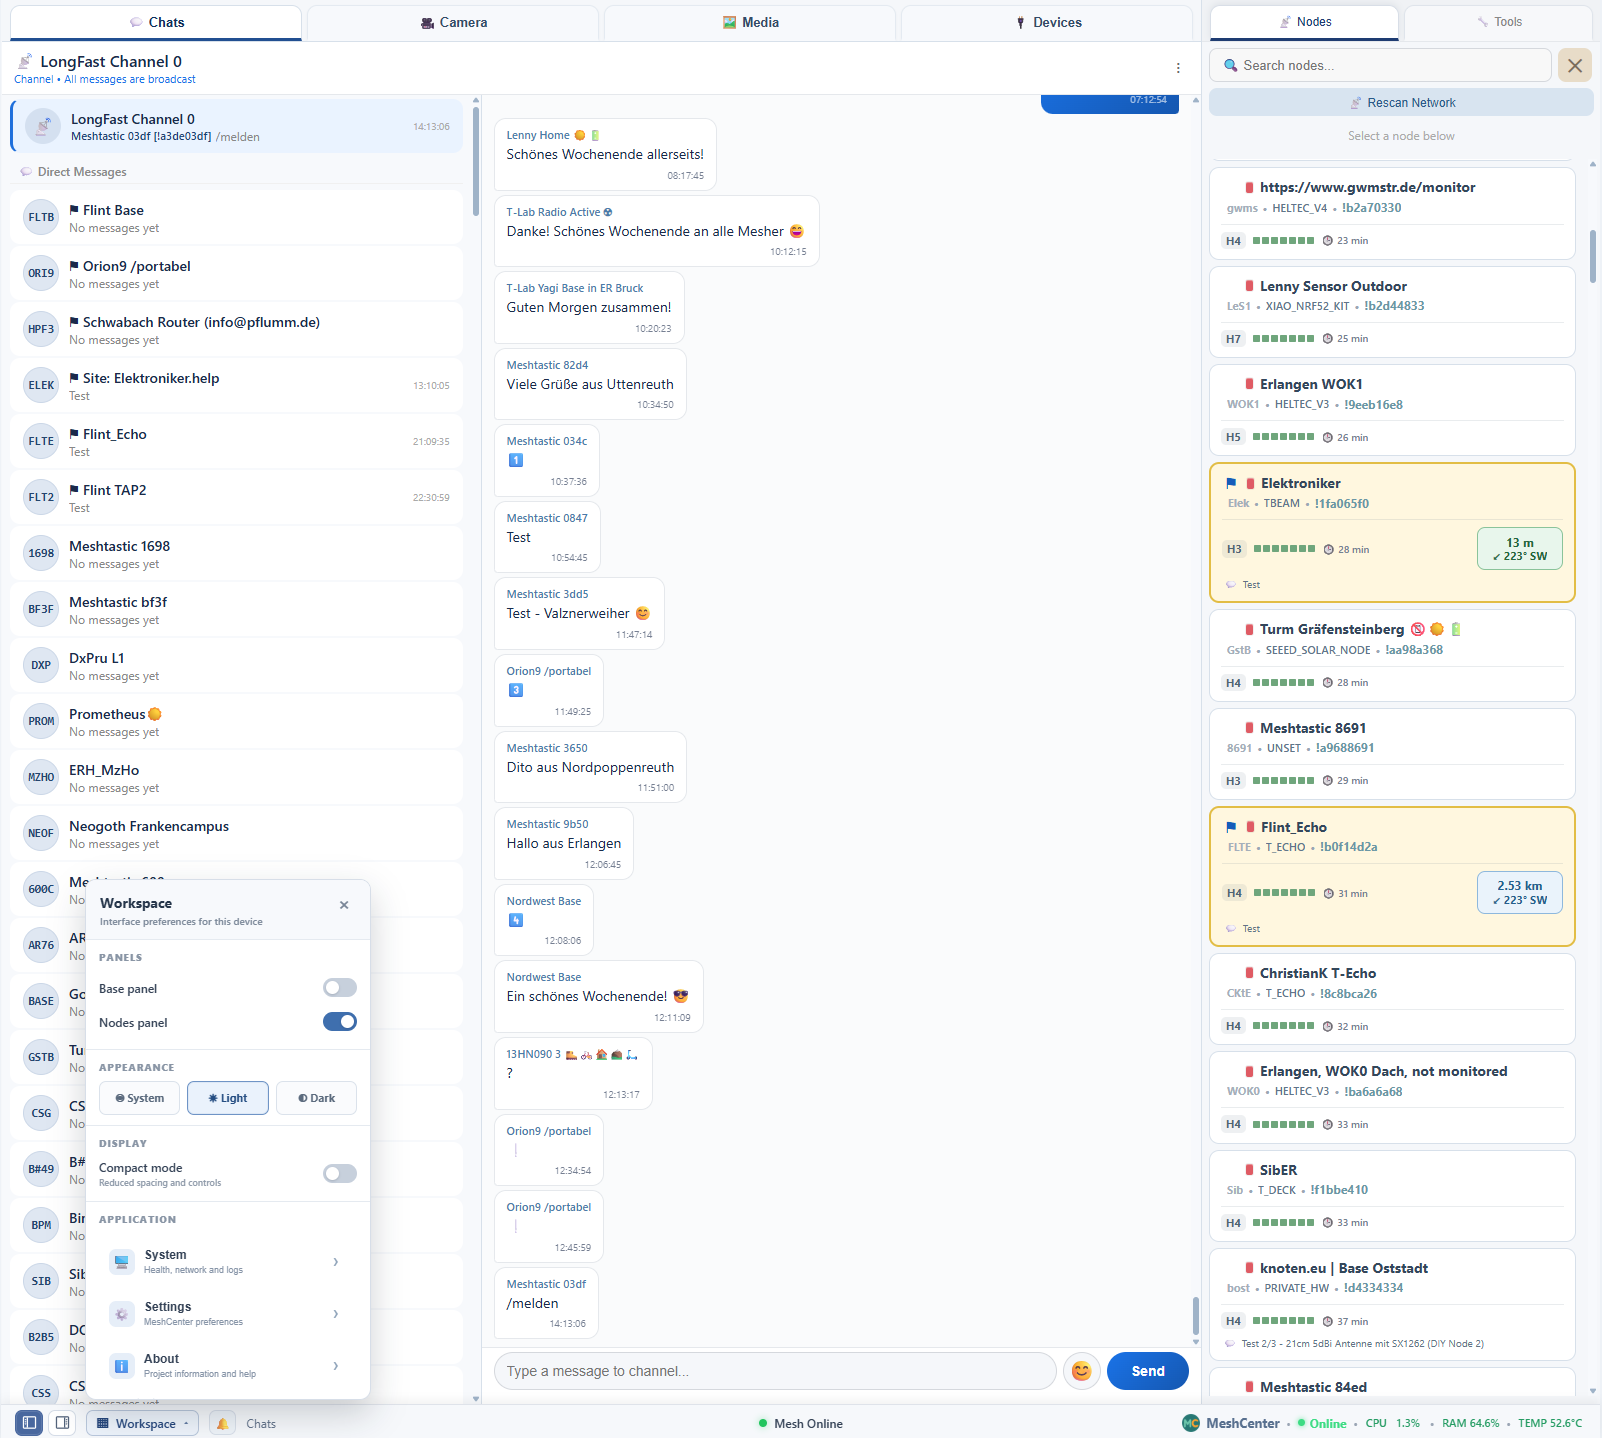
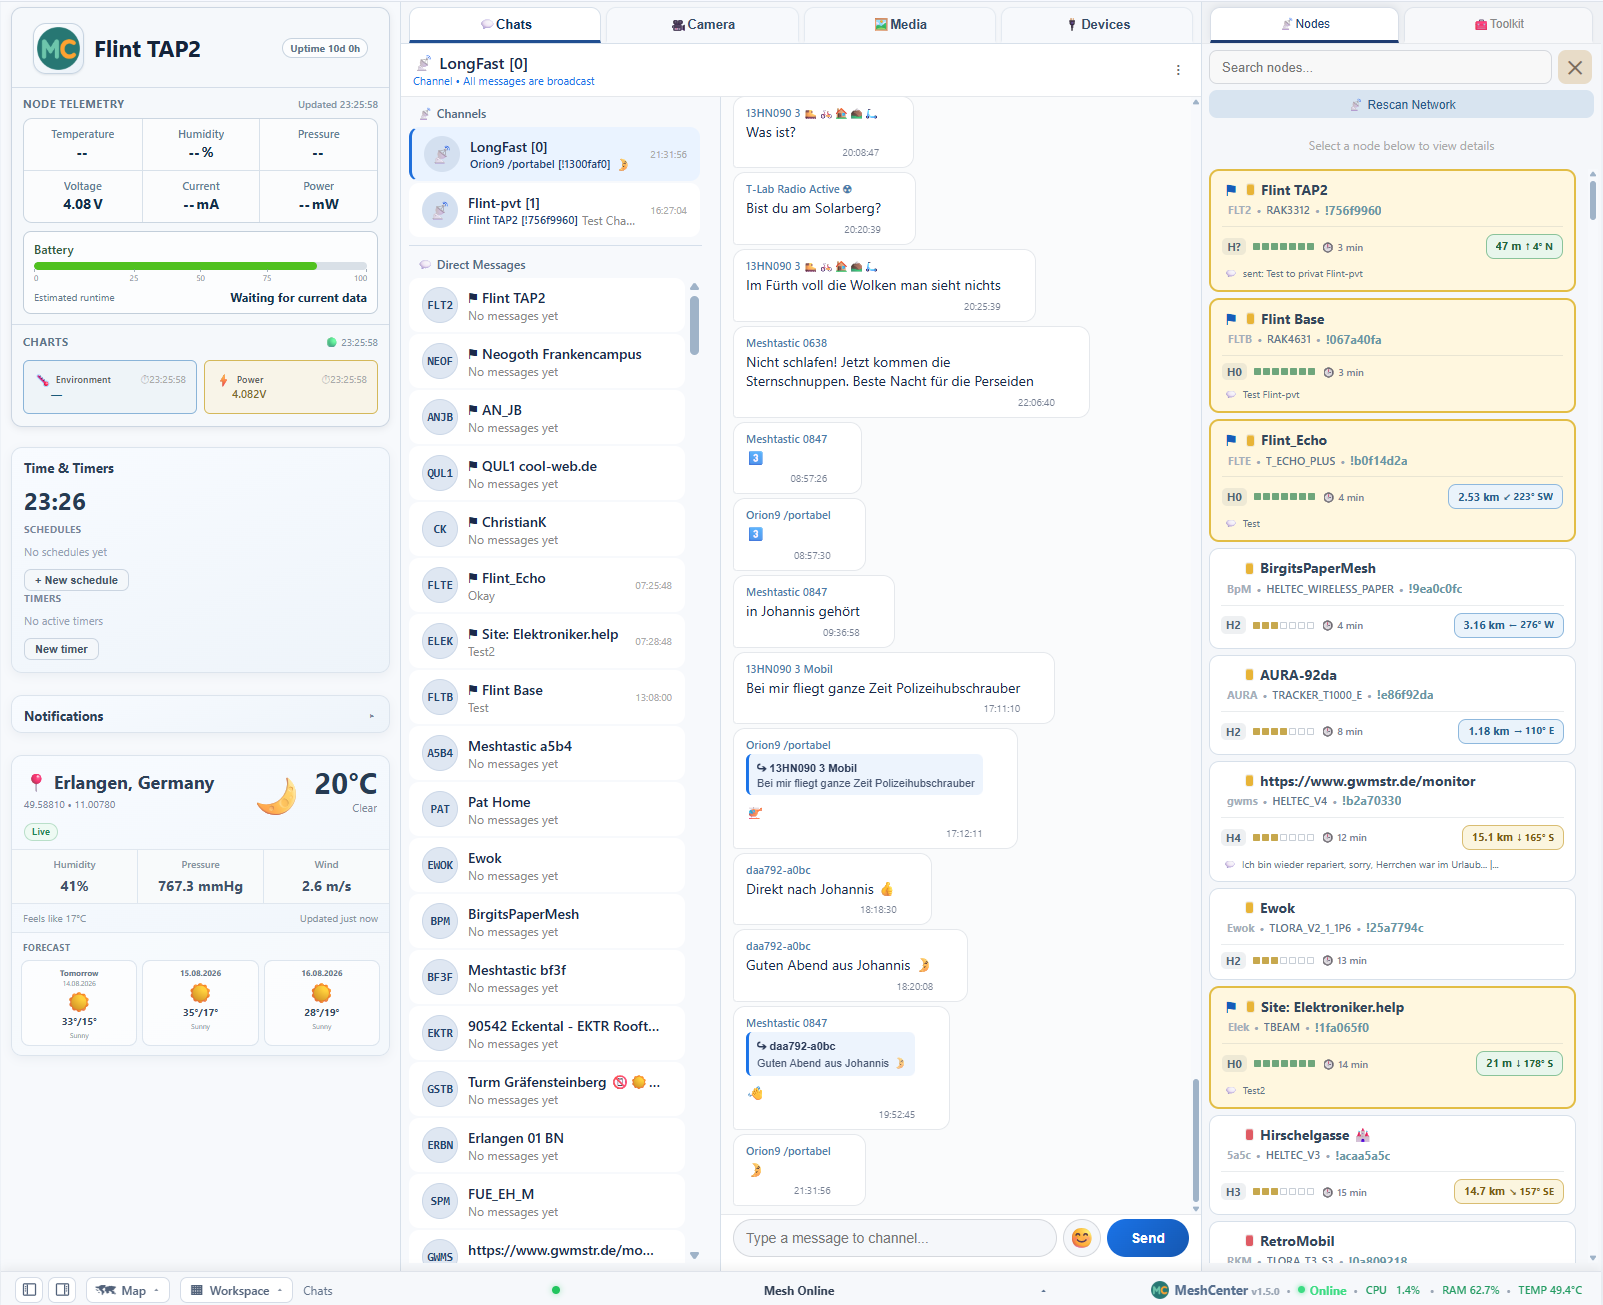
docs: add 11 screenshots with collapsible spoilers to README

diff --git a/README.md b/README.md
@@ -294,35 +294,84 @@ Other Raspberry Pi models and standard Meshtastic-compatible radios with a suppo
 
 ---
 
-## Screenshots
+## 📸 Screenshots
 
-<p align="center">
-  <img width="1407" height="1292" alt="main002" src="docs/images/MeshCenter_main_light_theme.png" />
-</p>
+<details>
+<summary>🗺 Map — Light theme</summary>
 
-<p align="center">
-  <img width="1407" height="1292" alt="main002" src="docs/images/MeshCenter_map_dark_theme.png" />
-</p>
+![MeshCenter map view light theme](docs/images/MeshCenter_map_light_theme.png)
 
-<p align="center">
-  <img width="1407" height="1292" alt="main002" src="docs/images/MeshCenter_map_light_theme.png" />
-</p>
+</details>
 
-<p align="center">
-  <img width="1407" height="1292" alt="main002" src="docs/images/MeshCenter_chats_dark_theme.png" />
-</p>
+<details>
+<summary>🗺 Map — Dark theme</summary>
 
-<p align="center">
-  <img width="1403" height="1265" alt="main003" src="docs/images/MeshCenter_media_dark_theme.png" />
-</p>
+![MeshCenter map view dark theme](docs/images/MeshCenter_map_dark_theme.png)
 
-<p align="center">
-  <img width="1407" height="1292" alt="main002" src="docs/images/MeshCenter_system_dark_theme.png" />
-</p>
+</details>
 
-<p align="center">
-  <img width="1403" height="1265" alt="main003" src="docs/images/MeshCenter_sensors_light_theme.png" />
-</p>
+<details>
+<summary>🗺 Map + Nodes panel — Light theme</summary>
+
+![MeshCenter map split light theme](docs/images/MeshCenter_map_split_light_theme.png)
+
+</details>
+
+<details>
+<summary>🗺 Map + Nodes panel — Dark theme</summary>
+
+![MeshCenter map split dark theme](docs/images/MeshCenter_map_split_dark_theme.png)
+
+</details>
+
+<details>
+<summary>💬 Chats — Light theme</summary>
+
+![MeshCenter chats light theme](docs/images/MeshCenter_chats_light_theme.png)
+
+</details>
+
+<details>
+<summary>💬 Chats + Nodes panel — Dark theme</summary>
+
+![MeshCenter chats split dark theme](docs/images/MeshCenter_chats_split_dark_theme.png)
+
+</details>
+
+<details>
+<summary>🖼 Media — Light theme</summary>
+
+![MeshCenter media light theme](docs/images/MeshCenter_media_light_theme.png)
+
+</details>
+
+<details>
+<summary>🖼 Media + Nodes panel — Light theme</summary>
+
+![MeshCenter media split light theme](docs/images/MeshCenter_media_split_light_theme.png)
+
+</details>
+
+<details>
+<summary>📷 Camera — Light theme</summary>
+
+![MeshCenter camera light theme](docs/images/MeshCenter_camera_light_theme.png)
+
+</details>
+
+<details>
+<summary>📟 Devices — Light theme</summary>
+
+![MeshCenter devices light theme](docs/images/MeshCenter_devices_light_theme.png)
+
+</details>
+
+<details>
+<summary>ℹ About — Dark theme</summary>
+
+![MeshCenter about dark theme](docs/images/MeshCenter_about_dark_theme.png)
+
+</details>
 
 ---
 
